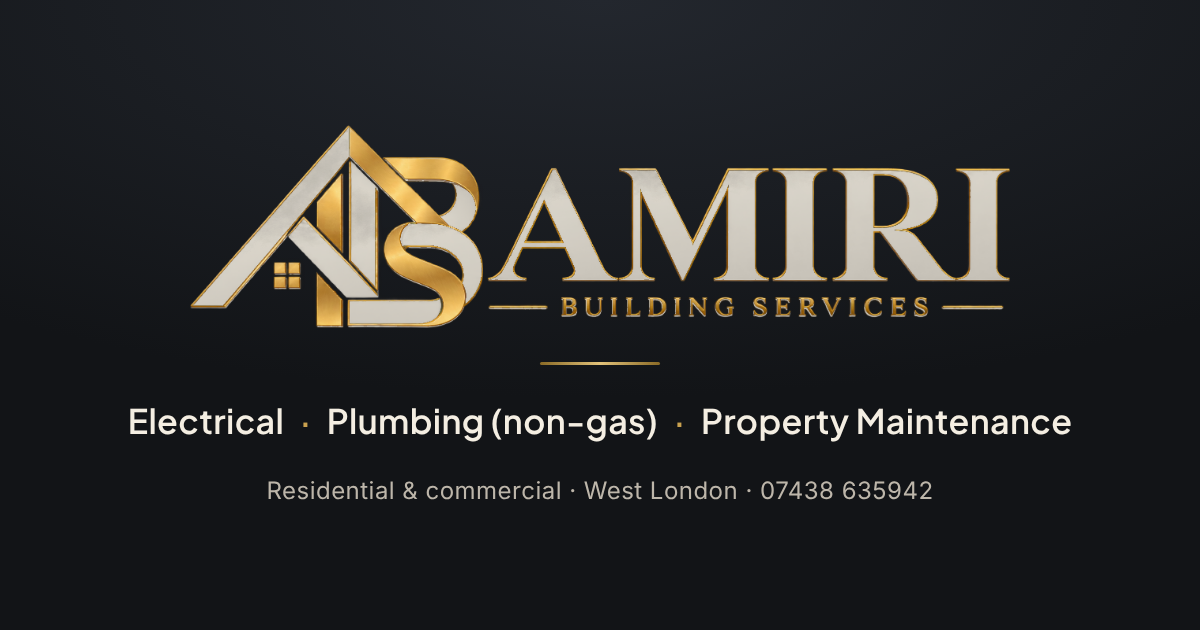
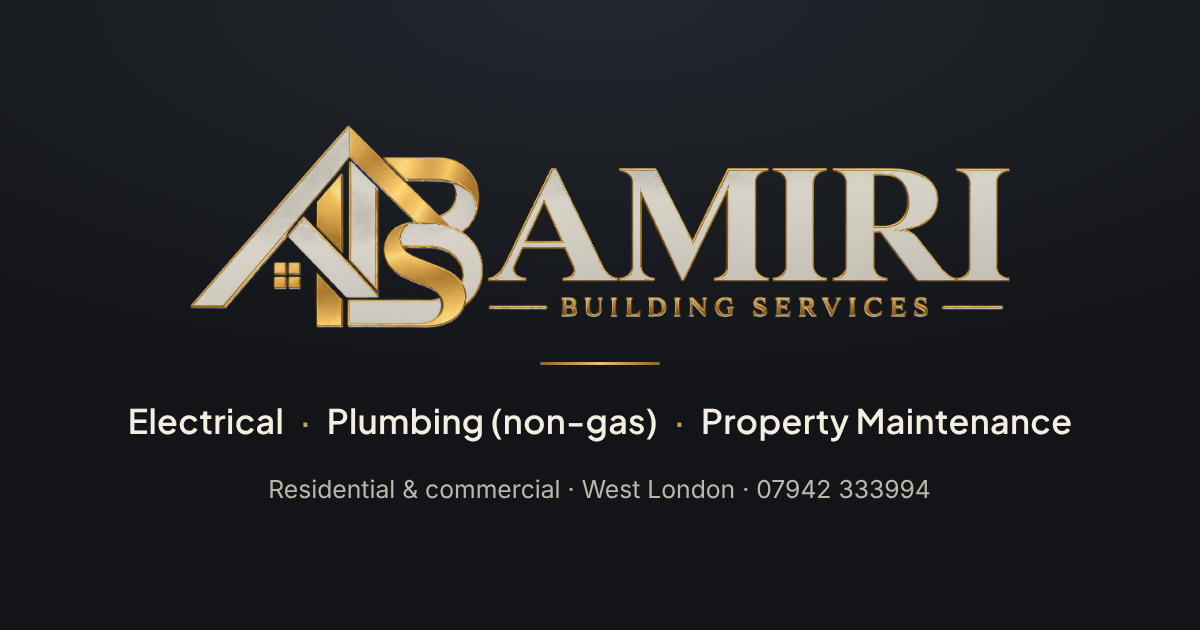
Change the business phone and WhatsApp number to 07942 333994
Updated in site.config.json (call links, displayed number, structured data,
WhatsApp links and the enquiry form all read from it), the home and contact
page descriptions, the launch checklist and the social share image.

Claude-Session: https://claude.ai/code/session_01CBPefjLRxZh76Ldz93ce96

Changed region(s): [[0.2158, 0.754, 0.7708, 0.8143]]

diff --git a/src/pages/index.html b/src/pages/index.html
@@ -2,7 +2,7 @@
 {
   "path": "/",
   "title": "Electrician & Plumber West Drayton | Amiri Building Services",
-  "description": "Electrician, non-gas plumbing and property maintenance in West Drayton, Hayes, Uxbridge and West London. Homes, landlords and businesses. Call 07438 635942.",
+  "description": "Electrician, non-gas plumbing and property maintenance in West Drayton, Hayes, Uxbridge and West London. Homes, landlords and businesses. Call 07942 333994.",
   "priority": 1.0,
   "changefreq": "weekly",
   "bodyClass": "page-home",

diff --git a/src/pages/contact.html b/src/pages/contact.html
@@ -2,7 +2,7 @@
 {
   "path": "/contact/",
   "title": "Contact Us | Call, WhatsApp or Email | Amiri Building Services",
-  "description": "Call 07438 635942, WhatsApp or email info@amiribuildingservices.com for electrical, plumbing and maintenance work in West Drayton and West London.",
+  "description": "Call 07942 333994, WhatsApp or email info@amiribuildingservices.com for electrical, plumbing and maintenance work in West Drayton and West London.",
   "breadcrumb": "Contact",
   "priority": 0.8,
   "ogType": "website"

diff --git a/LAUNCH_CHECKLIST.md b/LAUNCH_CHECKLIST.md
@@ -9,7 +9,7 @@ Work through this before pointing amiribuildingservices.com at the new site. Tes
 - [ ] Verify legal company details: AMIRI BUILDING SERVICES LTD, company no. 17472711, registered office (check against Companies House)
 - [ ] **Verify registered jurisdiction (England and Wales)**, then set `jurisdictionVerified: true` in site.config.json
 - [ ] Verify service areas (`areas` in site.config.json) and the local text on /areas/ and the five local pages (/areas/west-drayton/, /hayes/, /uxbridge/, /southall/, /hillingdon/)
-- [ ] Verify phone number 07438 635942
+- [x] Phone number changed to 07942 333994 (confirmed by the owner, 16 Oct 2026)
 - [ ] Verify email info@amiribuildingservices.com receives mail
 - [ ] Confirm business hours (or leave `hours.confirmed: false`)
 - [ ] Confirm qualifications. Add to `credentials` only what you can evidence
@@ -29,7 +29,7 @@ Work through this before pointing amiribuildingservices.com at the new site. Tes
 
 ## Testing
 - [ ] Check mobile layout on a real phone (iPhone and Android if possible)
-- [ ] Test the Call button (opens the dialler with 07438 635942)
+- [ ] Test the Call button (opens the dialler with 07942 333994)
 - [ ] Test the WhatsApp button (opens a chat with the business number and pre-filled text)
 - [ ] Test the enquiry form: errors show for empty fields; WhatsApp message is correctly filled; "Send by email instead" works
 - [ ] Test "Send photos on WhatsApp"
